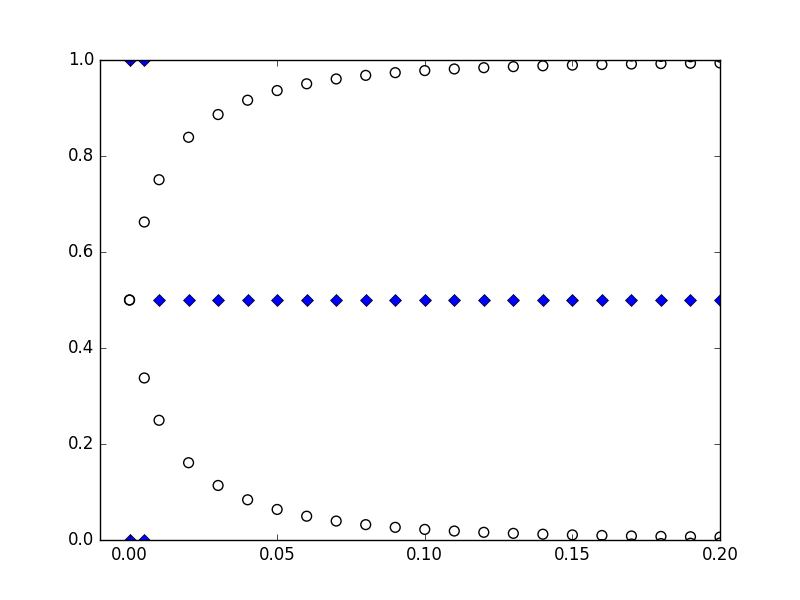
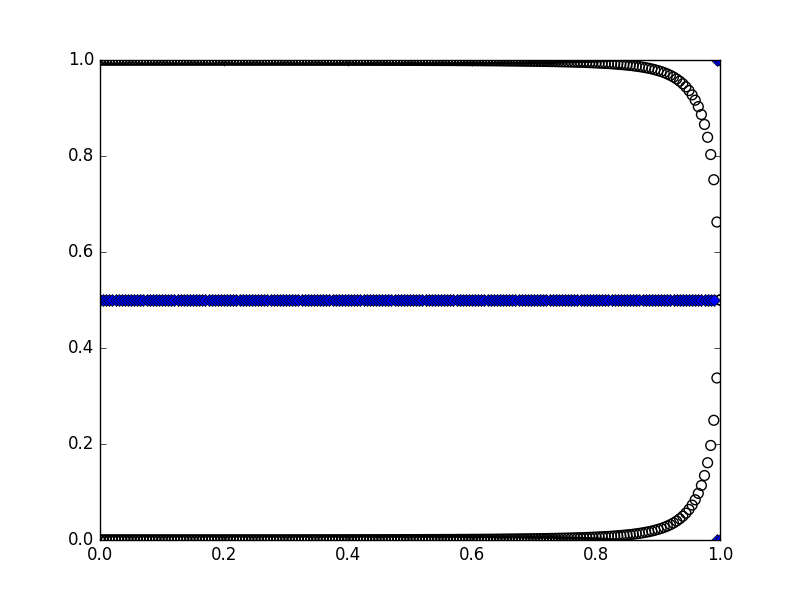
180713Update

diff --git a/BHZ_Hamiltonian.py b/BHZ_Hamiltonian.py
@@ -9,7 +9,7 @@ pauli_y = np.array([[0, -1j], [1j, 0]], dtype=complex)
 pauli_z = np.array([[1, 0], [0, -1]], dtype=complex)
 pauli_vector = list([pauli_x, pauli_y, pauli_z])
 
-settings = {'num_lines': 101,
+settings = {'num_lines': 201,
             'pos_tol': 1e-2,
             'gap_tol': 2e-2,
             'move_tol': 0.3,
@@ -50,8 +50,10 @@ h0 = BHZ(-0.0686, -16.9)
 s0 = z2pack.hm.System(h0, dim=2)
 # sph = z2pack.shape.Sphere([0, 0, 0], 0.01)
 
+# Only Consider Half
 
-def squ(k1, k2): return np.array([k2-0.5, k1/2])
+
+def squ(k1, k2): return np.array([k2-0.5, k1/2-0.5])
 # def squ(k1, k2): return np.array([k2, k1/2])
 
 
@@ -68,7 +70,7 @@ fig, ax = plt.subplots()
 # z2pack.plot.chern(result, axis=ax[0])
 z2pack.plot.wcc(result, axis=ax)
 # ax.set_xlim(0.8, 1.01)
-ax.set_xlim(-0.01, 0.2)
+# ax.set_xlim(-0.01, 0.2)
 # ax[0].set_xlim(-1, 2)
 # ax[0].set_ylim(-1, 2)
 # ax[1].set_xlim(-1, 2)

diff --git a/HaldaneModel.py b/HaldaneModel.py
@@ -42,7 +42,7 @@ def get_chern(m, t1, t2, phi, **settings):
     z2pack.plot.chern(res, axis=ax[0])
     z2pack.plot.wcc(res, axis=ax[1])
     plt.savefig("HaldaneModel.png")
-    print("Z2 = ", z2pack.invariant.z2(res))
+    # print("Z2 = ", z2pack.invariant.z2(res))
     return z2pack.invariant.chern(res)
 
 
